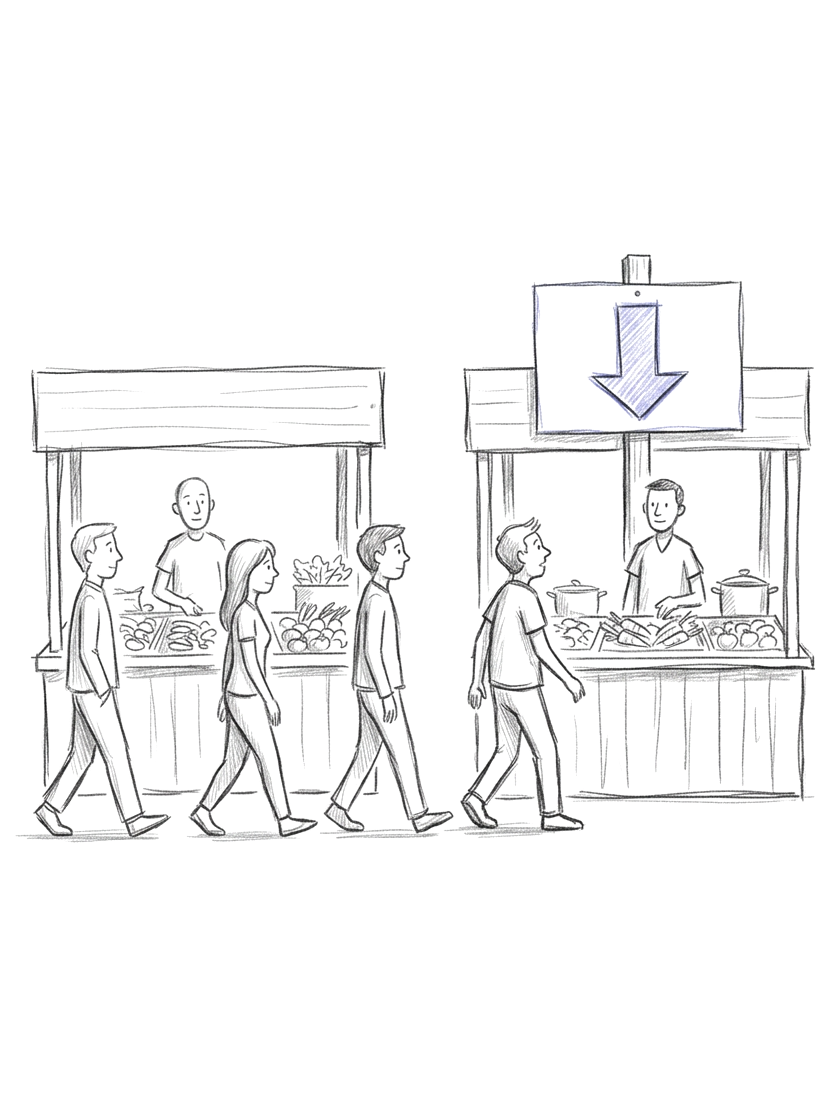
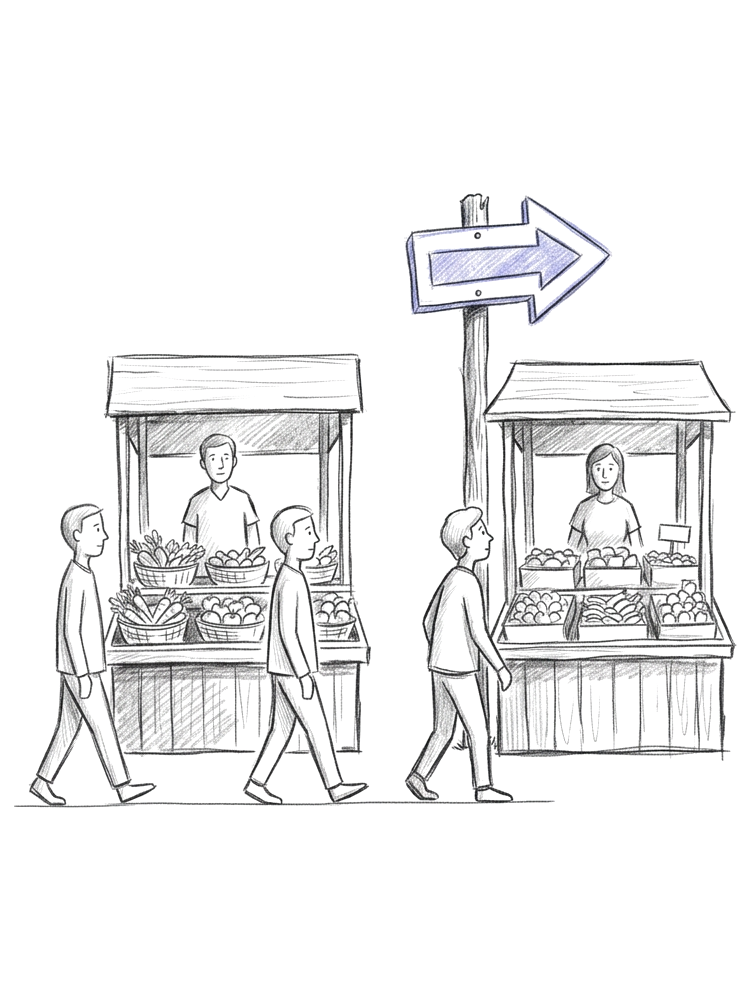
Merge Idea+Model blocks, new why-marketing illustration with puzzle accents

Changed region(s): [[0.0306, 0.1858, 0.98, 0.8052]]

diff --git a/index.html b/index.html
@@ -203,14 +203,15 @@ header.site .btn-primary{padding:11px 20px;font-size:14px}
   .about .vis{order:-1;max-width:100%;width:100%;margin-top:0}
 }
 /* why */
-.why-flex{display:flex;flex-wrap:wrap;gap:clamp(40px,6vw,80px);align-items:flex-start;margin-top:28px}
+.why-flex{display:flex;flex-wrap:wrap;gap:clamp(40px,6vw,80px);align-items:center;margin-top:28px}
 .why-txt{flex:1 1 460px;max-width:640px}
-.why-imgwrap{flex:1 1 320px;max-width:400px;margin-top:44px;padding:0 16px}
-.why-img{display:block;width:100%;height:auto;object-fit:contain;transition:transform .25s ease-out}
+.why-imgwrap{position:relative;flex:1 1 320px;max-width:400px;padding:0 16px}
+.why-img{position:relative;z-index:1;display:block;width:100%;height:auto;object-fit:contain;transition:transform .25s ease-out}
 .why-imgwrap:hover .why-img{transform:rotate(2deg)}
+.why-imgwrap .bgpz{inset:-30px;z-index:0}
 @media(max-width:900px){
   .why-flex{flex-direction:column;gap:32px}
-  .why-imgwrap{order:-1;max-width:100%;width:100%;margin-top:0;padding:0}
+  .why-imgwrap{order:-1;max-width:100%;width:100%;padding:0}
 }
 /* faq */
 .faqwrap{max-width:780px;border-top:1px solid var(--line);margin-top:32px}
@@ -355,21 +356,20 @@ footer.site nav{display:flex;gap:24px;flex-wrap:wrap;font:400 14px 'Onest',sans-
   </div>
 </section>
 
-<section class="sec" id="idea">
+<section class="sec" id="services">
   <div class="wrap">
-    <p class="eyebrow" data-rv><svg class="pzm" viewBox="0 0 100 100" aria-hidden="true"><path d="M28,18 H40 A10,10 0 0 0 60,18 H72 A10,10 0 0 1 82,28 V72 A10,10 0 0 1 72,82 H28 A10,10 0 0 1 18,72 V62 A10,10 0 0 1 18,40 V28 A10,10 0 0 1 28,18 Z" fill="currentColor"/></svg> Идея</p>
-    <h2 data-rv>Что такое маркетинг <em>на&nbsp;самом деле</em></h2>
-    <div style="max-width:68ch;margin-top:34px;display:flex;flex-direction:column;gap:20px">
-      <p class="lede" data-rv>Маркетинг часто путают с рекламой. Реклама — это только то, что видно снаружи: баннеры, посты, объявления. Сам маркетинг начинается раньше и отвечает на вопросы, от которых зависит всё остальное.</p>
-      <p class="lede" data-rv>Кому продукт действительно нужен. Почему из всех вариантов на рынке выбирают именно этот. В какой момент человек готов принять решение и чего ему для этого не хватает. Пока эти вопросы решаются в разных местах и по-разному, усилия расходуются вхолостую. Когда на них есть общий, согласованный ответ, каждое действие — реклама, текст, публикация — начинает работать на одну цель, а не само по себе.</p>
+    <p class="eyebrow" data-rv><svg class="pzm" viewBox="0 0 100 100" aria-hidden="true"><path d="M28,18 H40 A10,10 0 0 0 60,18 H72 A10,10 0 0 1 82,28 V72 A10,10 0 0 1 72,82 H28 A10,10 0 0 1 18,72 V62 A10,10 0 0 1 18,40 V28 A10,10 0 0 1 28,18 Z" fill="currentColor"/></svg> Модель</p>
+    <h2 data-rv>Как маркетинг устроен <em>на&nbsp;самом деле</em></h2>
+    <div style="max-width:68ch;margin-top:34px">
+      <p class="lede" data-rv>Маркетинг часто путают с рекламой. Реклама — это только то, что видно снаружи: баннеры, посты, объявления. Сам маркетинг — не отдельная услуга, а часть того, как вообще работает бизнес: от того, что производится, до того, как это доходит до человека и почему он платит именно здесь, а&nbsp;не у соседа. Он работает не по частям, а целиком — шесть связанных стадий, где каждая опирается на предыдущую.</p>
     </div>
     <div class="grid g3">
-      <div class="card" data-rv><svg class="pzc" viewBox="0 0 100 100"><path d="M28,18 H40 A10,10 0 0 0 60,18 H72 A10,10 0 0 1 82,28 V72 A10,10 0 0 1 72,82 H28 A10,10 0 0 1 18,72 V62 A10,10 0 0 1 18,40 V28 A10,10 0 0 1 28,18 Z" fill="currentColor"/></svg><div class="num"><svg viewBox="0 0 100 100" aria-hidden="true"><path d="M28,18 H40 A10,10 0 0 0 60,18 H72 A10,10 0 0 1 82,28 V72 A10,10 0 0 1 72,82 H28 A10,10 0 0 1 18,72 V62 A10,10 0 0 1 18,40 V28 A10,10 0 0 1 28,18 Z" fill="#6E77EE"/></svg><b>01</b></div><h3>Кому вы нужны</h3><p class="cardnote">Демография — это только то, кто теоретически может купить. Настоящую аудиторию определяет не возраст и не доход, а конкретная задача, которую человек решает, выбирая продукт.</p></div>
-      <div class="card" data-rv><svg class="pzc" viewBox="0 0 100 100"><path d="M28,18 H40 A10,10 0 0 0 60,18 H72 A10,10 0 0 1 82,28 V72 A10,10 0 0 1 72,82 H28 A10,10 0 0 1 18,72 V62 A10,10 0 0 1 18,40 V28 A10,10 0 0 1 28,18 Z" fill="currentColor"/></svg><div class="num"><svg viewBox="0 0 100 100" aria-hidden="true"><path d="M28,18 H40 A10,10 0 0 0 60,18 H72 A10,10 0 0 1 82,28 V72 A10,10 0 0 1 72,82 H28 A10,10 0 0 1 18,72 V62 A10,10 0 0 1 18,40 V28 A10,10 0 0 1 28,18 Z" fill="#6E77EE"/></svg><b>02</b></div><h3>Почему выбирают вас</h3><p class="cardnote">Место в сознании покупателя — не список преимуществ. Если позиция размыта между «тоже качественно» и «тоже профессионально», бизнес не занимает вообще никакого места в памяти человека.</p></div>
-      <div class="card" data-rv><svg class="pzc" viewBox="0 0 100 100"><path d="M28,18 H40 A10,10 0 0 0 60,18 H72 A10,10 0 0 1 82,28 V72 A10,10 0 0 1 72,82 H28 A10,10 0 0 1 18,72 V62 A10,10 0 0 1 18,40 V28 A10,10 0 0 1 28,18 Z" fill="currentColor"/></svg><div class="num"><svg viewBox="0 0 100 100" aria-hidden="true"><path d="M28,18 H40 A10,10 0 0 0 60,18 H72 A10,10 0 0 1 82,28 V72 A10,10 0 0 1 72,82 H28 A10,10 0 0 1 18,72 V62 A10,10 0 0 1 18,40 V28 A10,10 0 0 1 28,18 Z" fill="#6E77EE"/></svg><b>03</b></div><h3>Как об этом узнают</h3><p class="cardnote">Не там, где громче, а там, где человек уже ищет решение своей задачи — в поиске, в ленте соцсети, на профильном мероприятии или через знакомого. Точное попадание в нужный момент работает сильнее самой дорогой рекламы не в том месте.</p></div>
-      <div class="card" data-rv><svg class="pzc" viewBox="0 0 100 100"><path d="M28,18 H40 A10,10 0 0 0 60,18 H72 A10,10 0 0 1 82,28 V72 A10,10 0 0 1 72,82 H28 A10,10 0 0 1 18,72 V62 A10,10 0 0 1 18,40 V28 A10,10 0 0 1 28,18 Z" fill="currentColor"/></svg><div class="num"><svg viewBox="0 0 100 100" aria-hidden="true"><path d="M28,18 H40 A10,10 0 0 0 60,18 H72 A10,10 0 0 1 82,28 V72 A10,10 0 0 1 72,82 H28 A10,10 0 0 1 18,72 V62 A10,10 0 0 1 18,40 V28 A10,10 0 0 1 28,18 Z" fill="#6E77EE"/></svg><b>04</b></div><h3>Что убеждает выбрать именно сейчас</h3><p class="cardnote">Между первым интересом и решением всегда есть разрыв. Обещание должно подтверждаться сразу, при первом же контакте — иначе интерес гаснет раньше, чем успевает превратиться в решение.</p></div>
-      <div class="card" data-rv><svg class="pzc" viewBox="0 0 100 100"><path d="M28,18 H40 A10,10 0 0 0 60,18 H72 A10,10 0 0 1 82,28 V72 A10,10 0 0 1 72,82 H28 A10,10 0 0 1 18,72 V62 A10,10 0 0 1 18,40 V28 A10,10 0 0 1 28,18 Z" fill="currentColor"/></svg><div class="num"><svg viewBox="0 0 100 100" aria-hidden="true"><path d="M28,18 H40 A10,10 0 0 0 60,18 H72 A10,10 0 0 1 82,28 V72 A10,10 0 0 1 72,82 H28 A10,10 0 0 1 18,72 V62 A10,10 0 0 1 18,40 V28 A10,10 0 0 1 28,18 Z" fill="#6E77EE"/></svg><b>05</b></div><h3>Что удерживает клиента после первой покупки</h3><p class="cardnote">Клиент, который не вернулся сразу после первой покупки, и клиент, который постепенно отдалился спустя год, теряются по совершенно разным причинам — и решения для них тоже разные.</p></div>
-      <div class="card" data-rv><svg class="pzc" viewBox="0 0 100 100"><path d="M28,18 H40 A10,10 0 0 0 60,18 H72 A10,10 0 0 1 82,28 V72 A10,10 0 0 1 72,82 H28 A10,10 0 0 1 18,72 V62 A10,10 0 0 1 18,40 V28 A10,10 0 0 1 28,18 Z" fill="currentColor"/></svg><div class="num"><svg viewBox="0 0 100 100" aria-hidden="true"><path d="M28,18 H40 A10,10 0 0 0 60,18 H72 A10,10 0 0 1 82,28 V72 A10,10 0 0 1 72,82 H28 A10,10 0 0 1 18,72 V62 A10,10 0 0 1 18,40 V28 A10,10 0 0 1 28,18 Z" fill="#6E77EE"/></svg><b>06</b></div><h3>Откуда видно, что это работает</h3><p class="cardnote">Не общее ощущение, что «вроде работает», а конкретная точка, где теряется больше всего людей. Диаграмма ради диаграммы ничего не доказывает — доказывает число на конкретном этапе.</p></div>
+      <div class="card" data-rv><svg class="pzc" viewBox="0 0 100 100"><path d="M28,18 H40 A10,10 0 0 0 60,18 H72 A10,10 0 0 1 82,28 V72 A10,10 0 0 1 72,82 H28 A10,10 0 0 1 18,72 V62 A10,10 0 0 1 18,40 V28 A10,10 0 0 1 28,18 Z" fill="currentColor"/></svg><div class="num"><svg viewBox="0 0 100 100" aria-hidden="true"><path d="M28,18 H40 A10,10 0 0 0 60,18 H72 A10,10 0 0 1 82,28 V72 A10,10 0 0 1 72,82 H28 A10,10 0 0 1 18,72 V62 A10,10 0 0 1 18,40 V28 A10,10 0 0 1 28,18 Z" fill="#6E77EE"/></svg><b>01</b></div><h3>Рынок</h3><p class="cardnote">Прежде чем говорить о продукте, важно понимать рынок, в который он выходит: кто уже работает в нише, в чём конкуренты сильны и слабы. Без этой картины любое решение — просто догадка.</p></div>
+      <div class="card" data-rv><svg class="pzc" viewBox="0 0 100 100"><path d="M28,18 H40 A10,10 0 0 0 60,18 H72 A10,10 0 0 1 82,28 V72 A10,10 0 0 1 72,82 H28 A10,10 0 0 1 18,72 V62 A10,10 0 0 1 18,40 V28 A10,10 0 0 1 28,18 Z" fill="currentColor"/></svg><div class="num"><svg viewBox="0 0 100 100" aria-hidden="true"><path d="M28,18 H40 A10,10 0 0 0 60,18 H72 A10,10 0 0 1 82,28 V72 A10,10 0 0 1 72,82 H28 A10,10 0 0 1 18,72 V62 A10,10 0 0 1 18,40 V28 A10,10 0 0 1 28,18 Z" fill="#6E77EE"/></svg><b>02</b></div><h3>Аудитория</h3><p class="cardnote">Демография — это только то, кто теоретически может купить. Настоящую аудиторию определяет конкретная задача, которую человек решает, выбирая продукт, — а не возраст или доход.</p></div>
+      <div class="card" data-rv><svg class="pzc" viewBox="0 0 100 100"><path d="M28,18 H40 A10,10 0 0 0 60,18 H72 A10,10 0 0 1 82,28 V72 A10,10 0 0 1 72,82 H28 A10,10 0 0 1 18,72 V62 A10,10 0 0 1 18,40 V28 A10,10 0 0 1 28,18 Z" fill="currentColor"/></svg><div class="num"><svg viewBox="0 0 100 100" aria-hidden="true"><path d="M28,18 H40 A10,10 0 0 0 60,18 H72 A10,10 0 0 1 82,28 V72 A10,10 0 0 1 72,82 H28 A10,10 0 0 1 18,72 V62 A10,10 0 0 1 18,40 V28 A10,10 0 0 1 28,18 Z" fill="#6E77EE"/></svg><b>03</b></div><h3>Ценность и позиционирование</h3><p class="cardnote">Продукт объясняется не через характеристики, а через то, что он меняет для человека. Если позиция размыта между «тоже качественно» и «тоже профессионально» — бизнес не занимает вообще никакого места в памяти покупателя.</p></div>
+      <div class="card" data-rv><svg class="pzc" viewBox="0 0 100 100"><path d="M28,18 H40 A10,10 0 0 0 60,18 H72 A10,10 0 0 1 82,28 V72 A10,10 0 0 1 72,82 H28 A10,10 0 0 1 18,72 V62 A10,10 0 0 1 18,40 V28 A10,10 0 0 1 28,18 Z" fill="currentColor"/></svg><div class="num"><svg viewBox="0 0 100 100" aria-hidden="true"><path d="M28,18 H40 A10,10 0 0 0 60,18 H72 A10,10 0 0 1 82,28 V72 A10,10 0 0 1 72,82 H28 A10,10 0 0 1 18,72 V62 A10,10 0 0 1 18,40 V28 A10,10 0 0 1 28,18 Z" fill="#6E77EE"/></svg><b>04</b></div><h3>Точки касания</h3><p class="cardnote">Продажа в лоб с первого раза сегодня редко срабатывает — нужно несколько касаний: реклама, контент, офлайн-события, личные встречи. Не там, где громче, а там, где человек уже ищет решение своей задачи.</p></div>
+      <div class="card" data-rv><svg class="pzc" viewBox="0 0 100 100"><path d="M28,18 H40 A10,10 0 0 0 60,18 H72 A10,10 0 0 1 82,28 V72 A10,10 0 0 1 72,82 H28 A10,10 0 0 1 18,72 V62 A10,10 0 0 1 18,40 V28 A10,10 0 0 1 28,18 Z" fill="currentColor"/></svg><div class="num"><svg viewBox="0 0 100 100" aria-hidden="true"><path d="M28,18 H40 A10,10 0 0 0 60,18 H72 A10,10 0 0 1 82,28 V72 A10,10 0 0 1 72,82 H28 A10,10 0 0 1 18,72 V62 A10,10 0 0 1 18,40 V28 A10,10 0 0 1 28,18 Z" fill="#6E77EE"/></svg><b>05</b></div><h3>Путь к решению</h3><p class="cardnote">От первого интереса до покупки — разные этапы, и на каждом нужны разные аргументы. Обещание должно подтверждаться сразу при первом контакте — а после покупки начинается новый этап: заслужить, чтобы вернулись снова.</p></div>
+      <div class="card" data-rv><svg class="pzc" viewBox="0 0 100 100"><path d="M28,18 H40 A10,10 0 0 0 60,18 H72 A10,10 0 0 1 82,28 V72 A10,10 0 0 1 72,82 H28 A10,10 0 0 1 18,72 V62 A10,10 0 0 1 18,40 V28 A10,10 0 0 1 28,18 Z" fill="currentColor"/></svg><div class="num"><svg viewBox="0 0 100 100" aria-hidden="true"><path d="M28,18 H40 A10,10 0 0 0 60,18 H72 A10,10 0 0 1 82,28 V72 A10,10 0 0 1 72,82 H28 A10,10 0 0 1 18,72 V62 A10,10 0 0 1 18,40 V28 A10,10 0 0 1 28,18 Z" fill="#6E77EE"/></svg><b>06</b></div><h3>Аналитика и корректировка</h3><p class="cardnote">То, что сработало вчера, не гарантированно работает сегодня. Важна не диаграмма ради диаграммы, а конкретная точка, где теряется больше всего людей, — точное число на этом этапе, а не общее ощущение «вроде работает».</p></div>
     </div>
   </div>
 </section>
@@ -385,7 +385,7 @@ footer.site nav{display:flex;gap:24px;flex-wrap:wrap;font:400 14px 'Onest',sans-
           <p class="lede" data-rv style="margin-top:28px">Можно делать лучший продукт в городе и остаться незамеченным. Рынок не выбирает лучшее — он выбирает то, что понял и запомнил. Маркетинг переводит реальную ценность продукта на язык, понятный тому, кто его покупает, и доводит этот смысл до нужного человека в нужный момент.</p>
           <p class="lede" data-rv style="margin-top:20px">Без этой работы даже сильный продукт остаётся неполным: он есть, а спроса на него нет; клиенты есть, но приходят случайно. Маркетинг превращает случайность в систему, которую можно повторять и на которую можно опираться.</p>
         </div>
-        <div class="why-imgwrap" data-rv><img class="why-img" src="/why-marketing.png" alt="" loading="lazy" width="830" height="1106"></div>
+        <div class="why-imgwrap" data-rv><div class="bgpz" id="whyBg" aria-hidden="true"></div><img class="why-img" src="/why-marketing.png" alt="" loading="lazy" width="751" height="1001"></div>
       </div>
     </div>
   </div>
@@ -427,23 +427,6 @@ footer.site nav{display:flex;gap:24px;flex-wrap:wrap;font:400 14px 'Onest',sans-
       <div class="pstep" data-rv><span class="pc"><svg viewBox="0 0 100 100" width="24" height="24"><path d="M28,18 H40 A10,10 0 0 0 60,18 H72 A10,10 0 0 1 82,28 V72 A10,10 0 0 1 72,82 H28 A10,10 0 0 1 18,72 V62 A10,10 0 0 1 18,40 V28 A10,10 0 0 1 28,18 Z" fill="none" stroke="#B7BAC3" stroke-width="6"/></svg></span><div class="no"><svg viewBox="0 0 100 100" aria-hidden="true"><path d="M28,18 H40 A10,10 0 0 0 60,18 H72 A10,10 0 0 1 82,28 V72 A10,10 0 0 1 72,82 H28 A10,10 0 0 1 18,72 V62 A10,10 0 0 1 18,40 V28 A10,10 0 0 1 28,18 Z" fill="#6E77EE"/></svg><b>03</b></div><div class="simg-wrap"><img class="simg" src="/process-3.png" alt="" loading="lazy" width="632" height="803"></div><h3>Сборка</h3><p>Собирается то, чего не хватает — и первым делом проверяется, что обещание подтверждается в первый же момент контакта, каким бы он ни был: сайт после клика по рекламе, встреча после рекомендации, разговор на мероприятии после афиши. Разрыв между обещанным и увиденным — самая частая причина, по которой интерес есть, а решения нет.</p></div>
       <div class="pstep" data-rv><span class="pc"><svg viewBox="0 0 100 100" width="24" height="24"><path d="M28,18 H40 A10,10 0 0 0 60,18 H72 A10,10 0 0 1 82,28 V72 A10,10 0 0 1 72,82 H28 A10,10 0 0 1 18,72 V62 A10,10 0 0 1 18,40 V28 A10,10 0 0 1 28,18 Z" fill="none" stroke="#B7BAC3" stroke-width="6"/></svg></span><div class="no"><svg viewBox="0 0 100 100" aria-hidden="true"><path d="M28,18 H40 A10,10 0 0 0 60,18 H72 A10,10 0 0 1 82,28 V72 A10,10 0 0 1 72,82 H28 A10,10 0 0 1 18,72 V62 A10,10 0 0 1 18,40 V28 A10,10 0 0 1 28,18 Z" fill="#6E77EE"/></svg><b>04</b></div><div class="simg-wrap"><img class="simg" src="/process-4.png" alt="" loading="lazy" width="697" height="735"></div><h3>Запуск и данные</h3><p>Любое новое направление запускается с одного сегмента, а не сразу во всех каналах — будь то рекламная кампания, пилотное партнёрство или первый выход на мероприятие. Рекламным системам, например, нужно набрать статистику, прежде чем они начнут сами находить лучшую аудиторию — запускать и сразу останавливать значит выключать процесс в тот момент, когда он только начал бы работать эффективно. Та же логика применима и вне рекламы: любому новому каналу нужно время, чтобы показать реальный результат.</p></div>
       <div class="pstep" data-rv><span class="pc"><svg viewBox="0 0 100 100" width="24" height="24"><path d="M28,18 H40 A10,10 0 0 0 60,18 H72 A10,10 0 0 1 82,28 V72 A10,10 0 0 1 72,82 H28 A10,10 0 0 1 18,72 V62 A10,10 0 0 1 18,40 V28 A10,10 0 0 1 28,18 Z" fill="none" stroke="#B7BAC3" stroke-width="6"/></svg></span><div class="no"><svg viewBox="0 0 100 100" aria-hidden="true"><path d="M28,18 H40 A10,10 0 0 0 60,18 H72 A10,10 0 0 1 82,28 V72 A10,10 0 0 1 72,82 H28 A10,10 0 0 1 18,72 V62 A10,10 0 0 1 18,40 V28 A10,10 0 0 1 28,18 Z" fill="#6E77EE"/></svg><b>05</b></div><div class="simg-wrap"><img class="simg" src="/process-5.png" alt="" loading="lazy" width="639" height="821"></div><h3>Корректировка</h3><p>Раз в месяц — честная картина по этапам: где именно теряется больше всего людей на этот раз. Цель не в том, чтобы закрыть план на сто процентов — амбициозная цель, выполненная на семьдесят, почти всегда полезнее заниженной цели, выполненной полностью.</p></div>
-    </div>
-  </div>
-</section>
-
-<section class="sec" id="services">
-  <div class="wrap">
-    <hr class="rule" style="margin-bottom:clamp(56px,9vw,120px)">
-    <p class="eyebrow" data-rv><svg class="pzm" viewBox="0 0 100 100" aria-hidden="true"><path d="M28,18 H40 A10,10 0 0 0 60,18 H72 A10,10 0 0 1 82,28 V72 A10,10 0 0 1 72,82 H28 A10,10 0 0 1 18,72 V62 A10,10 0 0 1 18,40 V28 A10,10 0 0 1 28,18 Z" fill="currentColor"/></svg> Модель</p>
-    <h2 data-rv>Как устроен маркетинг</h2>
-    <p class="lede" data-rv style="margin-top:20px;max-width:640px">Маркетинг — не отдельная услуга, а часть того, как вообще работает бизнес: от того, что производится, до того, как это доходит до человека и почему он платит именно здесь, а&nbsp;не у соседа. Он работает не по частям, а целиком — каждая часть опирается на предыдущую.</p>
-    <div class="grid g3">
-      <div class="card" data-rv><svg class="pzc" viewBox="0 0 100 100"><path d="M28,18 H40 A10,10 0 0 0 60,18 H72 A10,10 0 0 1 82,28 V72 A10,10 0 0 1 72,82 H28 A10,10 0 0 1 18,72 V62 A10,10 0 0 1 18,40 V28 A10,10 0 0 1 28,18 Z" fill="currentColor"/></svg><div class="num"><svg viewBox="0 0 100 100" aria-hidden="true"><path d="M28,18 H40 A10,10 0 0 0 60,18 H72 A10,10 0 0 1 82,28 V72 A10,10 0 0 1 72,82 H28 A10,10 0 0 1 18,72 V62 A10,10 0 0 1 18,40 V28 A10,10 0 0 1 28,18 Z" fill="#6E77EE"/></svg><b>01</b></div><h3 style="margin-bottom:12px">Рынок</h3><p style="font:400 15.5px/1.6 'Onest',sans-serif;color:rgba(22,24,29,.62);margin:0">Прежде чем говорить о продукте, важно понимать рынок, в который он выходит: кто уже работает в нише, в чём конкуренты сильны и слабы. Без этой картины любое решение — просто догадка.</p></div>
-      <div class="card" data-rv><svg class="pzc" viewBox="0 0 100 100"><path d="M28,18 H40 A10,10 0 0 0 60,18 H72 A10,10 0 0 1 82,28 V72 A10,10 0 0 1 72,82 H28 A10,10 0 0 1 18,72 V62 A10,10 0 0 1 18,40 V28 A10,10 0 0 1 28,18 Z" fill="currentColor"/></svg><div class="num"><svg viewBox="0 0 100 100" aria-hidden="true"><path d="M28,18 H40 A10,10 0 0 0 60,18 H72 A10,10 0 0 1 82,28 V72 A10,10 0 0 1 72,82 H28 A10,10 0 0 1 18,72 V62 A10,10 0 0 1 18,40 V28 A10,10 0 0 1 28,18 Z" fill="#6E77EE"/></svg><b>02</b></div><h3 style="margin-bottom:12px">Аудитория</h3><p style="font:400 15.5px/1.6 'Onest',sans-serif;color:rgba(22,24,29,.62);margin:0">Не «все, кому может подойти», а конкретные люди с конкретной причиной купить. То, что работает для доставки еды, не работает для услуг бизнесу — сначала нужно понять, что человек хочет.</p></div>
-      <div class="card" data-rv><svg class="pzc" viewBox="0 0 100 100"><path d="M28,18 H40 A10,10 0 0 0 60,18 H72 A10,10 0 0 1 82,28 V72 A10,10 0 0 1 72,82 H28 A10,10 0 0 1 18,72 V62 A10,10 0 0 1 18,40 V28 A10,10 0 0 1 28,18 Z" fill="currentColor"/></svg><div class="num"><svg viewBox="0 0 100 100" aria-hidden="true"><path d="M28,18 H40 A10,10 0 0 0 60,18 H72 A10,10 0 0 1 82,28 V72 A10,10 0 0 1 72,82 H28 A10,10 0 0 1 18,72 V62 A10,10 0 0 1 18,40 V28 A10,10 0 0 1 28,18 Z" fill="#6E77EE"/></svg><b>03</b></div><h3 style="margin-bottom:12px">Ценность и позиционирование</h3><p style="font:400 15.5px/1.6 'Onest',sans-serif;color:rgba(22,24,29,.62);margin:0">Продукт объясняется не через характеристики, а через то, что он меняет для человека. Если продукт новый или непривычный, рынок сначала нужно научить его понимать, а не сразу продавать.</p></div>
-      <div class="card" data-rv><svg class="pzc" viewBox="0 0 100 100"><path d="M28,18 H40 A10,10 0 0 0 60,18 H72 A10,10 0 0 1 82,28 V72 A10,10 0 0 1 72,82 H28 A10,10 0 0 1 18,72 V62 A10,10 0 0 1 18,40 V28 A10,10 0 0 1 28,18 Z" fill="currentColor"/></svg><div class="num"><svg viewBox="0 0 100 100" aria-hidden="true"><path d="M28,18 H40 A10,10 0 0 0 60,18 H72 A10,10 0 0 1 82,28 V72 A10,10 0 0 1 72,82 H28 A10,10 0 0 1 18,72 V62 A10,10 0 0 1 18,40 V28 A10,10 0 0 1 28,18 Z" fill="#6E77EE"/></svg><b>04</b></div><h3 style="margin-bottom:12px">Точки касания</h3><p style="font:400 15.5px/1.6 'Onest',sans-serif;color:rgba(22,24,29,.62);margin:0">Продажа в лоб с первого раза сегодня редко срабатывает. Работают несколько касаний, в которых человек успевает узнать, привыкнуть и довериться — реклама, контент, офлайн-события, личные встречи.</p></div>
-      <div class="card" data-rv><svg class="pzc" viewBox="0 0 100 100"><path d="M28,18 H40 A10,10 0 0 0 60,18 H72 A10,10 0 0 1 82,28 V72 A10,10 0 0 1 72,82 H28 A10,10 0 0 1 18,72 V62 A10,10 0 0 1 18,40 V28 A10,10 0 0 1 28,18 Z" fill="currentColor"/></svg><div class="num"><svg viewBox="0 0 100 100" aria-hidden="true"><path d="M28,18 H40 A10,10 0 0 0 60,18 H72 A10,10 0 0 1 82,28 V72 A10,10 0 0 1 72,82 H28 A10,10 0 0 1 18,72 V62 A10,10 0 0 1 18,40 V28 A10,10 0 0 1 28,18 Z" fill="#6E77EE"/></svg><b>05</b></div><h3 style="margin-bottom:12px">Путь к решению</h3><p style="font:400 15.5px/1.6 'Onest',sans-serif;color:rgba(22,24,29,.62);margin:0">От первого интереса до покупки — разные этапы, и на каждом нужны разные аргументы. Кто-то готов купить сразу, кто-то ещё выбирает, и с ним нужно говорить иначе, а не одинаково со всеми.</p></div>
-      <div class="card" data-rv><svg class="pzc" viewBox="0 0 100 100"><path d="M28,18 H40 A10,10 0 0 0 60,18 H72 A10,10 0 0 1 82,28 V72 A10,10 0 0 1 72,82 H28 A10,10 0 0 1 18,72 V62 A10,10 0 0 1 18,40 V28 A10,10 0 0 1 28,18 Z" fill="currentColor"/></svg><div class="num"><svg viewBox="0 0 100 100" aria-hidden="true"><path d="M28,18 H40 A10,10 0 0 0 60,18 H72 A10,10 0 0 1 82,28 V72 A10,10 0 0 1 72,82 H28 A10,10 0 0 1 18,72 V62 A10,10 0 0 1 18,40 V28 A10,10 0 0 1 28,18 Z" fill="#6E77EE"/></svg><b>06</b></div><h3 style="margin-bottom:12px">Аналитика и корректировка</h3><p style="font:400 15.5px/1.6 'Onest',sans-serif;color:rgba(22,24,29,.62);margin:0">То, что сработало вчера, не гарантированно работает сегодня. Решения опираются на то, что реально видно по итогам работы, а не на ощущение, что «вроде хорошо получилось». Что не работает — меняется, что работает — усиливается.</p></div>
     </div>
   </div>
 </section>
@@ -801,6 +784,7 @@ function burgerMenu(){
 
 document.addEventListener('DOMContentLoaded',function(){
   fillBg(document.getElementById('heroBg'),[{x:10,y:20,rot:-14,size:130,dur:9,delay:0},{x:80,y:14,rot:22,size:92,dur:11,delay:1.3},{x:72,y:66,rot:-26,size:160,dur:10,delay:.6},{x:20,y:74,rot:12,size:104,dur:12,delay:1.9}]);
+  var wb=document.getElementById('whyBg');if(wb)fillBg(wb,[{x:-6,y:8,rot:-16,size:70,dur:10,delay:.2,fill:'#E4E4E4'},{x:92,y:18,rot:20,size:56,dur:11,delay:1.1,fill:'#6E77EE'},{x:88,y:82,rot:-10,size:64,dur:9,delay:.7,fill:'#E4E4E4'}]);
   typo();reveal();processScroll();finalAssembly();faq();entries();sticky();form();cursor();intro();burgerMenu();
 });
 })();
